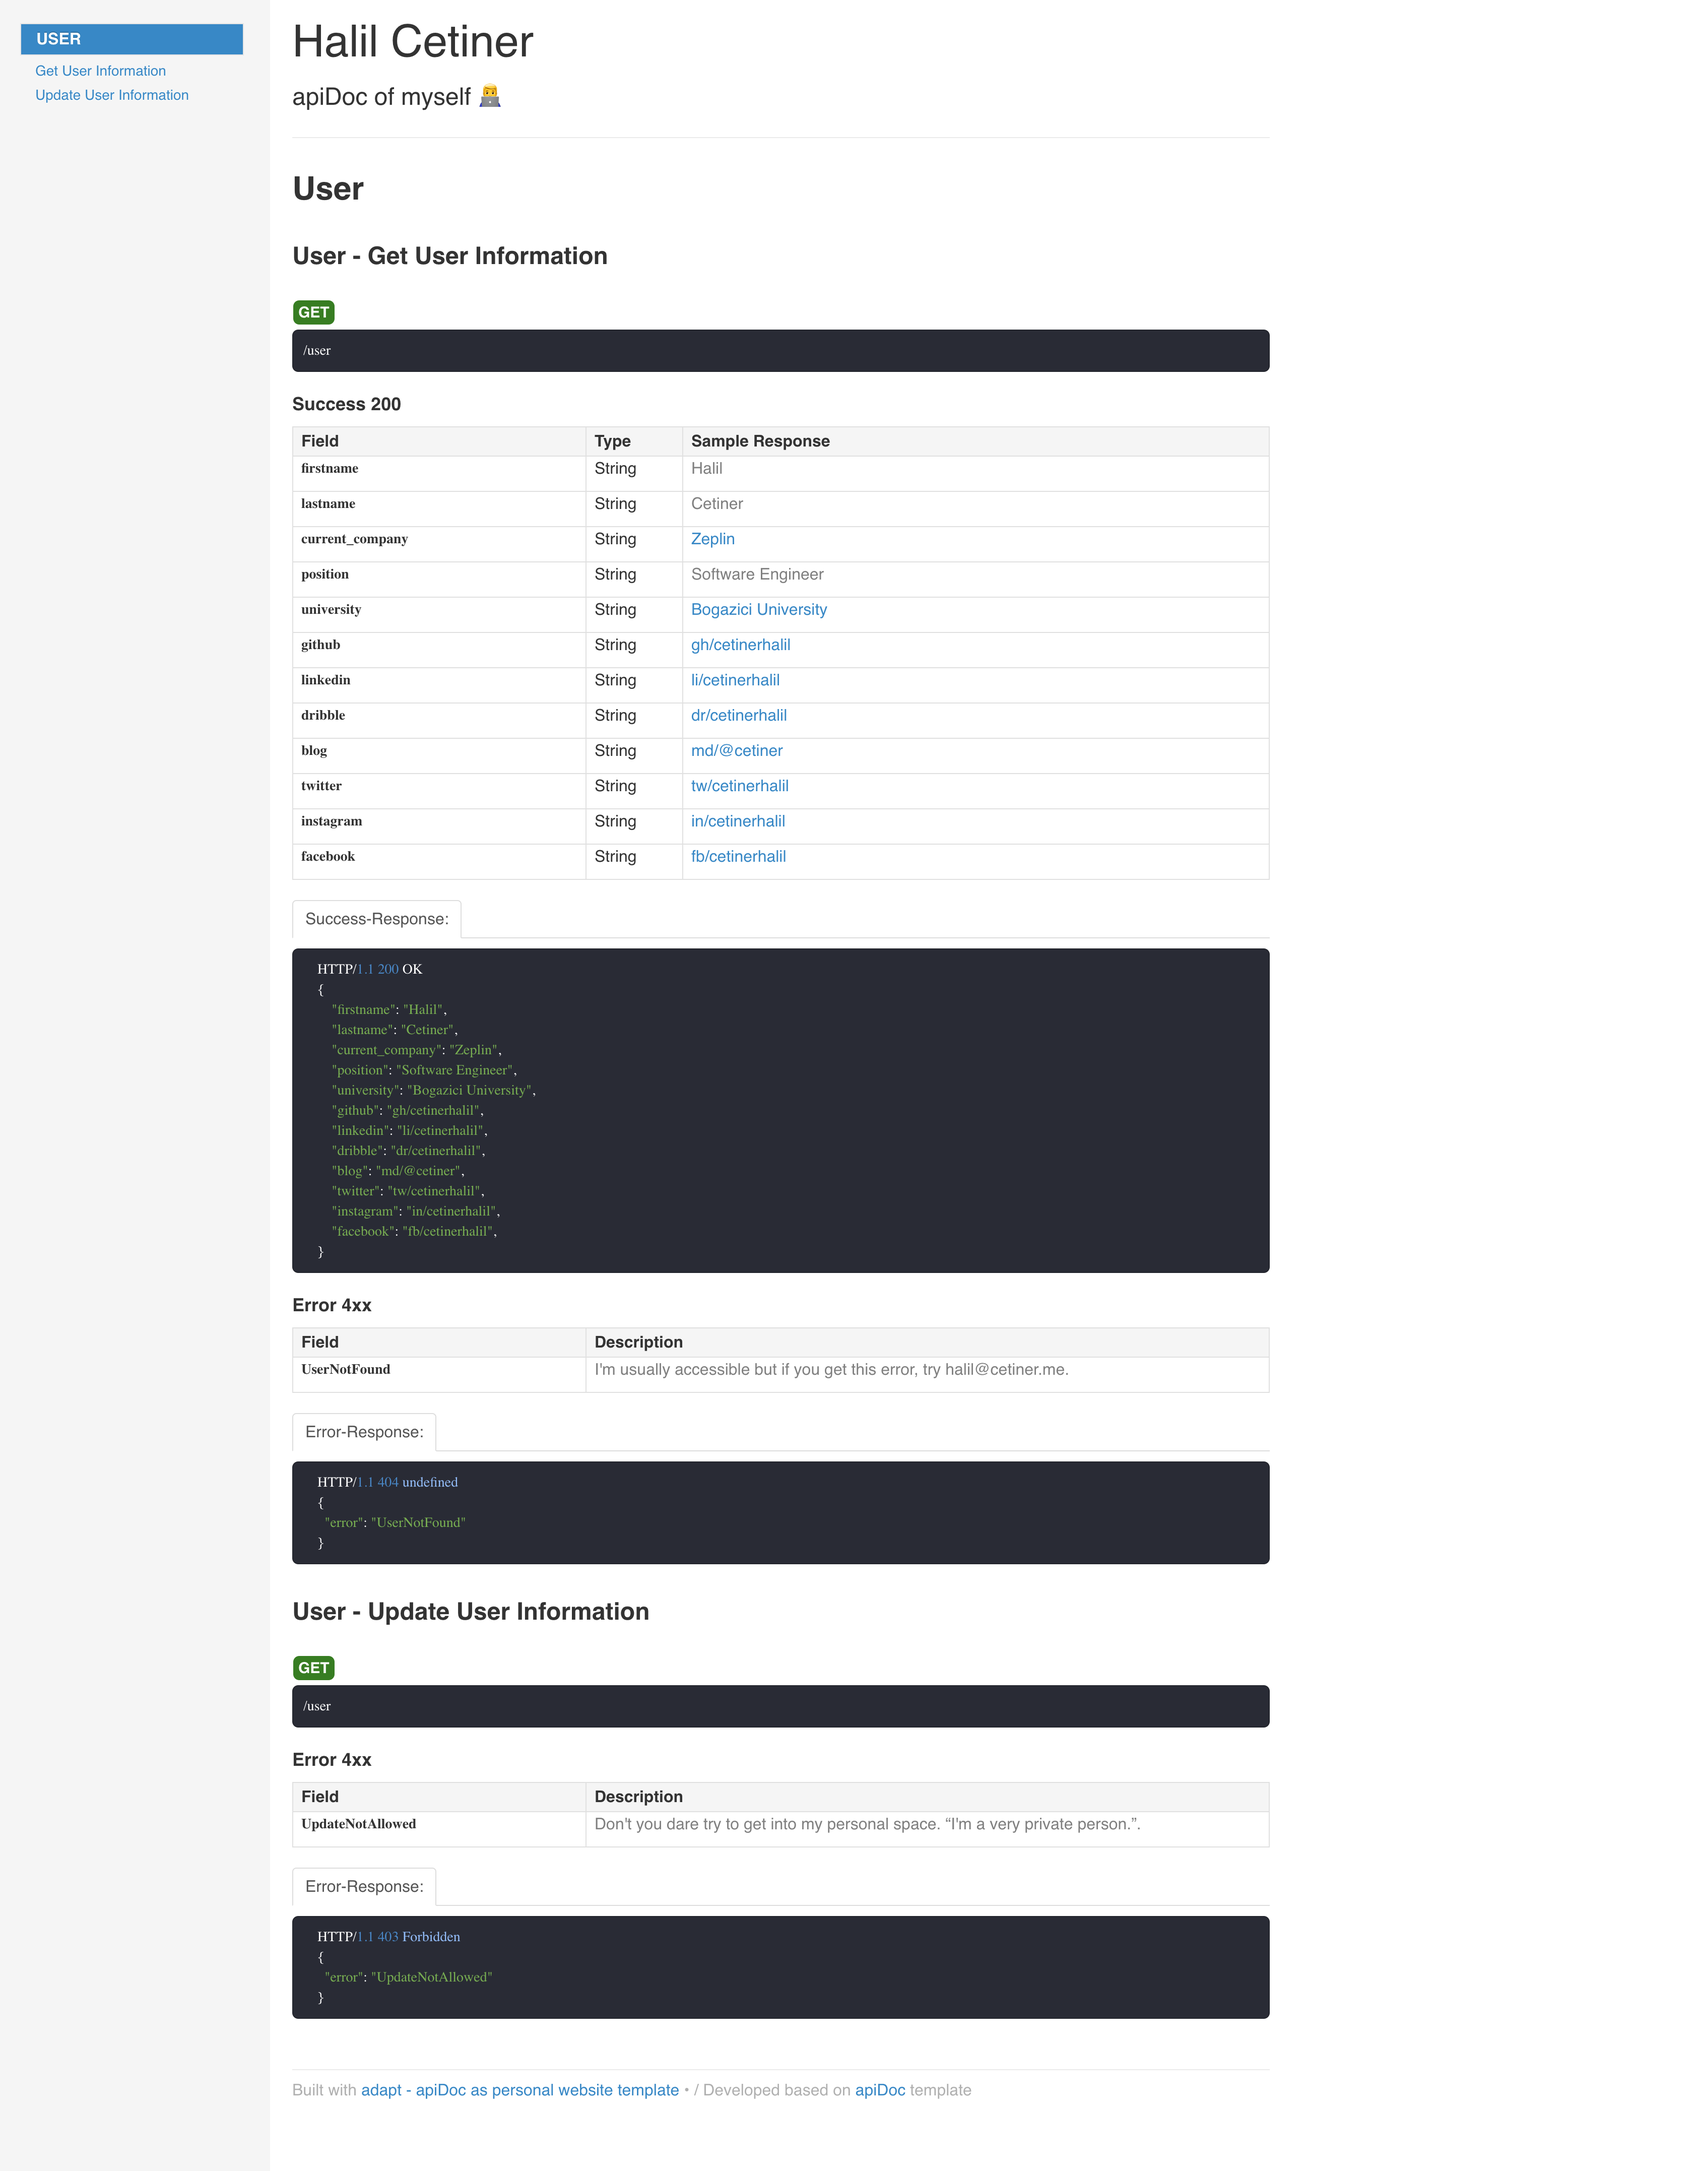
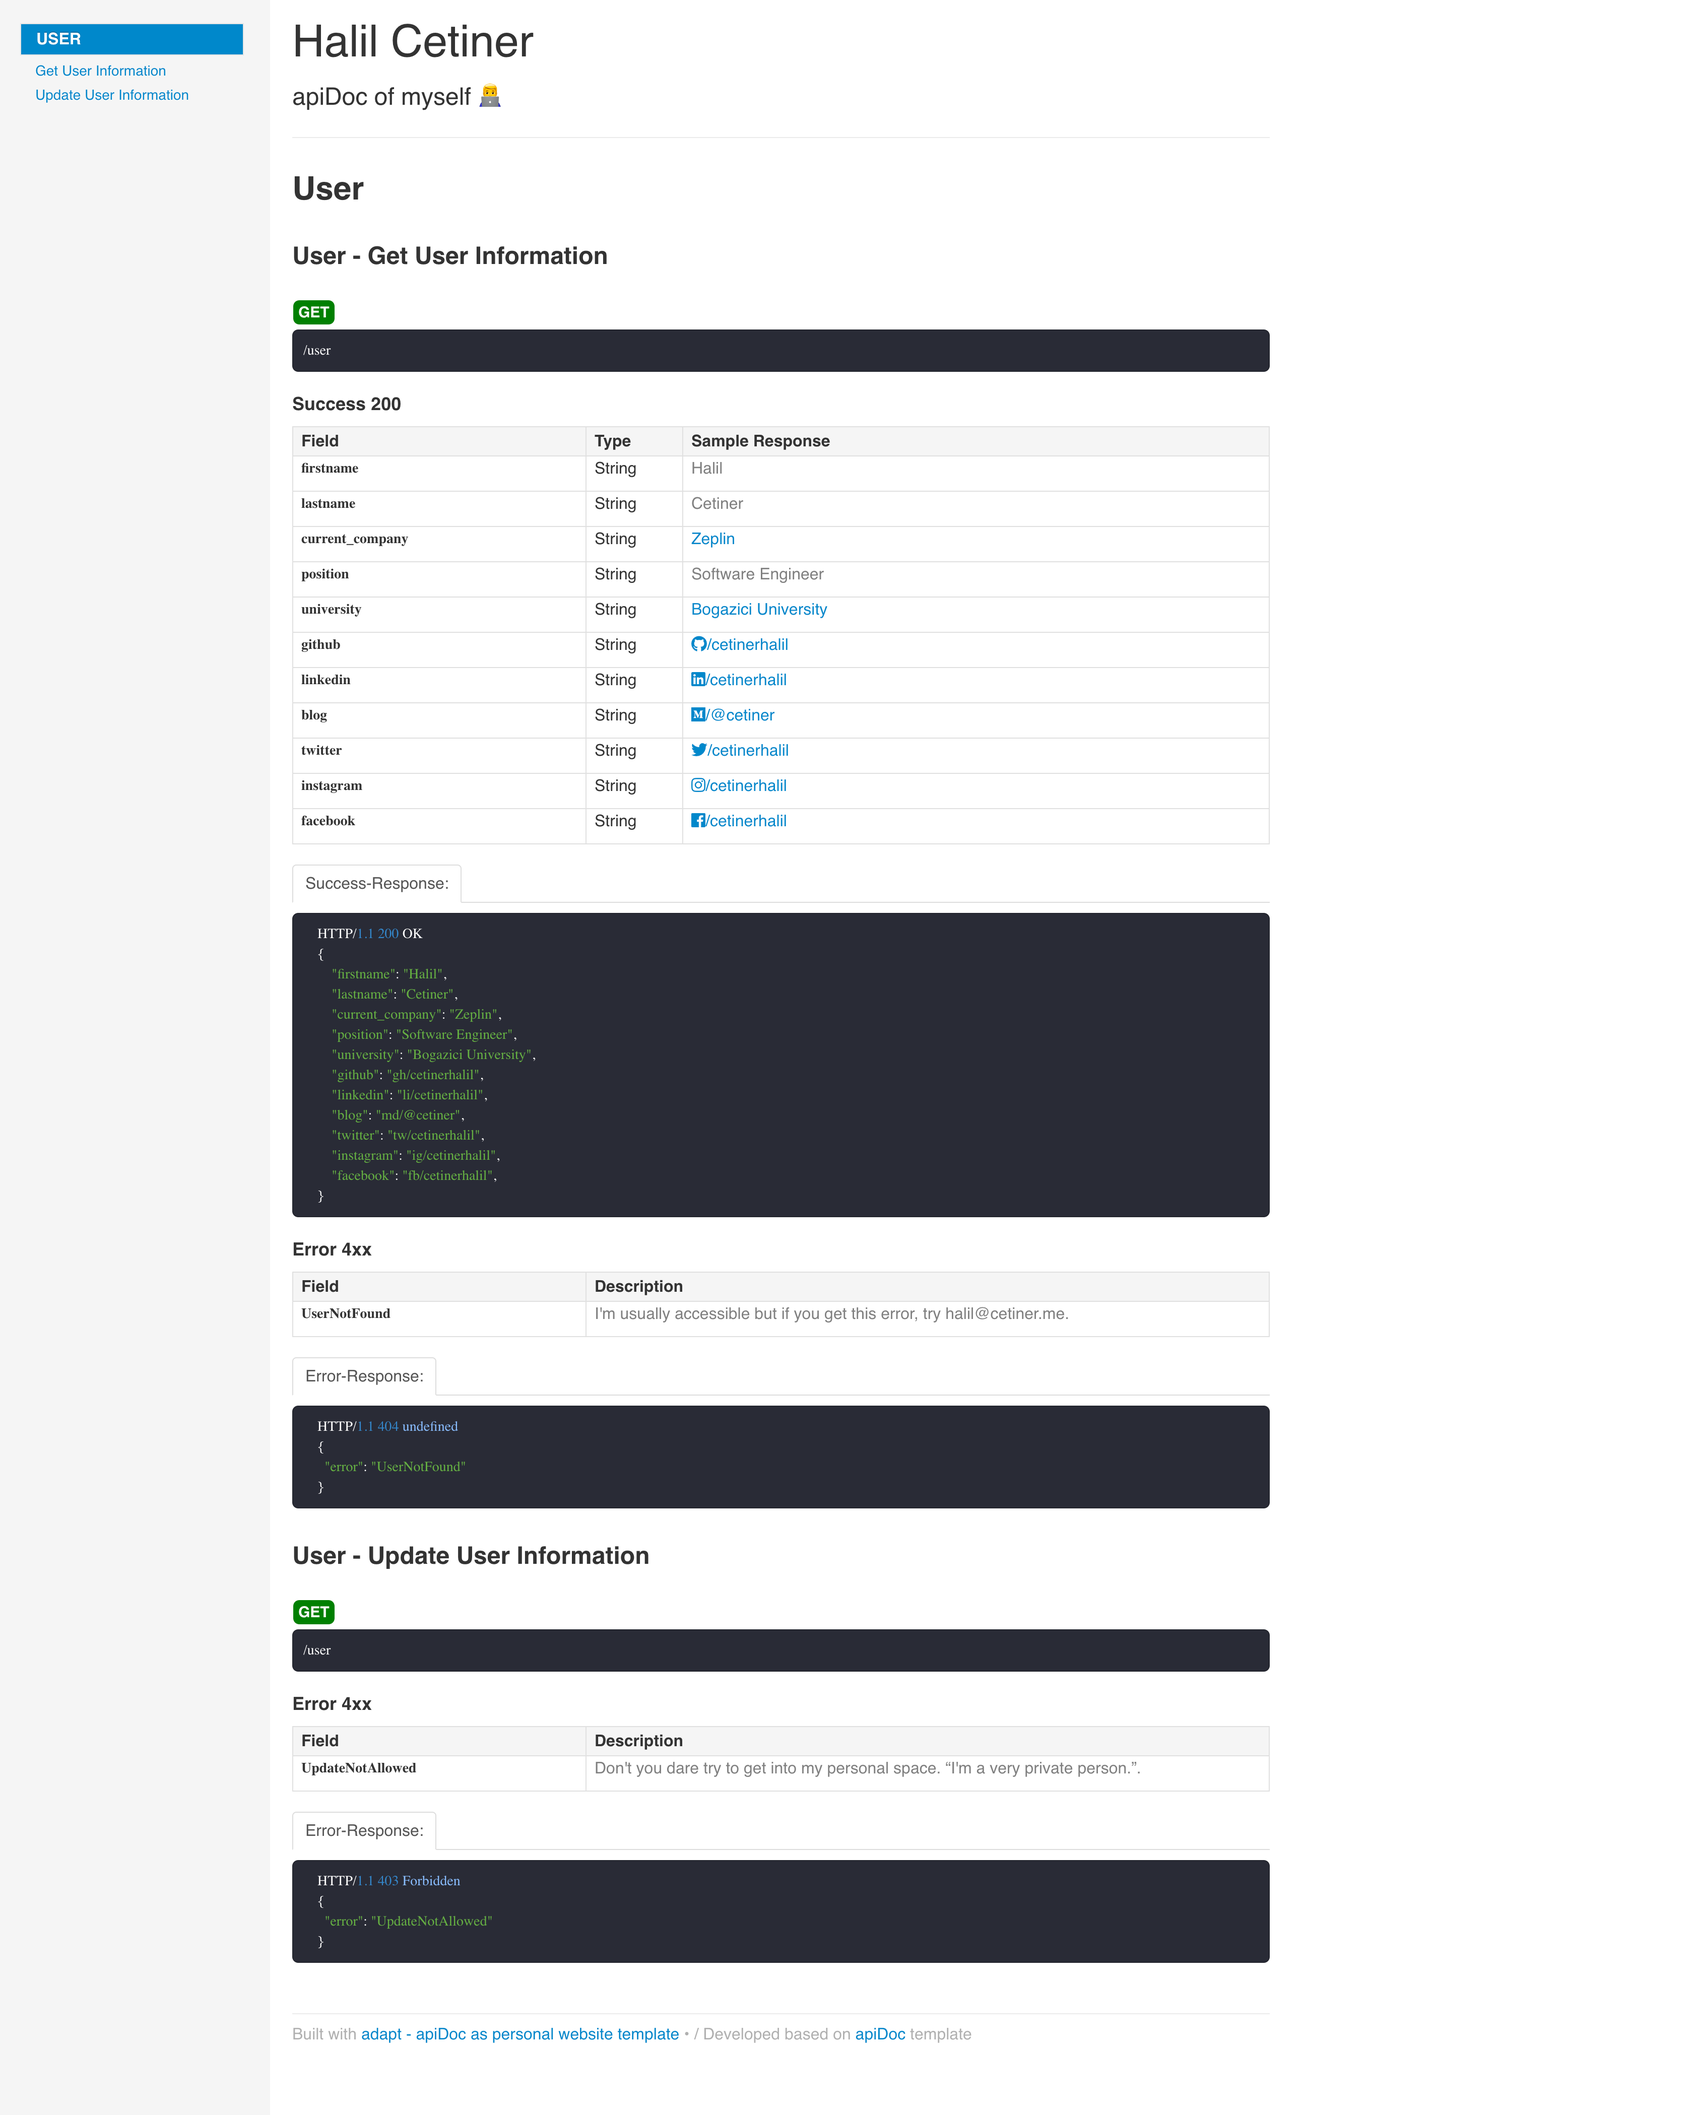
new ss added

diff --git a/index.html b/index.html
@@ -118,13 +118,6 @@
                   </td>
                 </tr>
                 <tr>
-                  <td class="code">dribble</td>
-                  <td>String</td>
-                  <td>
-                    <p><a href="https://dribbble.com/cetinerhalil" target="_blank"><i class="fab fa-dribbble"></i>/cetinerhalil</a></p>
-                  </td>
-                </tr>
-                <tr>
                   <td class="code">blog</td>
                   <td>String</td>
                   <td>
@@ -172,10 +165,9 @@
         </span><span class="str">"university"</span><span class="pun">:</span><span class="pln"> </span><span class="str">"Bogazici University"</span><span class="pun">,</span><span class="pln">
         </span><span class="str">"github"</span><span class="pun">:</span><span class="pln"> </span><span class="str">"gh/cetinerhalil"</span><span class="pun">,</span><span class="pln">
         </span><span class="str">"linkedin"</span><span class="pun">:</span><span class="pln"> </span><span class="str">"li/cetinerhalil"</span><span class="pun">,</span><span class="pln">
-        </span><span class="str">"dribble"</span><span class="pun">:</span><span class="pln"> </span><span class="str">"dr/cetinerhalil"</span><span class="pun">,</span><span class="pln">
         </span><span class="str">"blog"</span><span class="pun">:</span><span class="pln"> </span><span class="str">"md/@cetiner"</span><span class="pun">,</span><span class="pln">
         </span><span class="str">"twitter"</span><span class="pun">:</span><span class="pln"> </span><span class="str">"tw/cetinerhalil"</span><span class="pun">,</span><span class="pln">
-        </span><span class="str">"instagram"</span><span class="pun">:</span><span class="pln"> </span><span class="str">"in/cetinerhalil"</span><span class="pun">,</span><span class="pln">
+        </span><span class="str">"instagram"</span><span class="pun">:</span><span class="pln"> </span><span class="str">"ig/cetinerhalil"</span><span class="pun">,</span><span class="pln">
         </span><span class="str">"facebook"</span><span class="pun">:</span><span class="pln"> </span><span class="str">"fb/cetinerhalil"</span><span class="pun">,</span><span class="pln">
     </span><span class="pun">}</span></code></pre>
             </div>

diff --git a/adapt.js b/adapt.js
@@ -92,7 +92,6 @@ fs.readFile('./data.json', 'utf8', (err, data) => {
           const propertyName = data.user[x].name;
           const platformIndex = platforms.shortened.indexOf(propertyName.substr(0, 3));
           if (platformIndex != -1) {
-            console.log(propertyName)
             sample_response = `<a href="${data.user[x].link}" target="_blank"><i class="fab fa-${platforms.icons[platformIndex]}"></i>/${propertyName.substring(3)}</a>`;
           } else {
             sample_response = `<a href="${data.user[x].link}" target="_blank">${propertyName}</a>`
